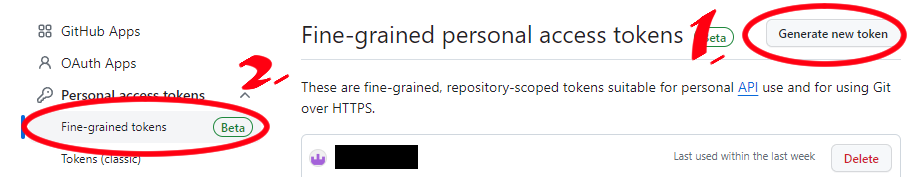
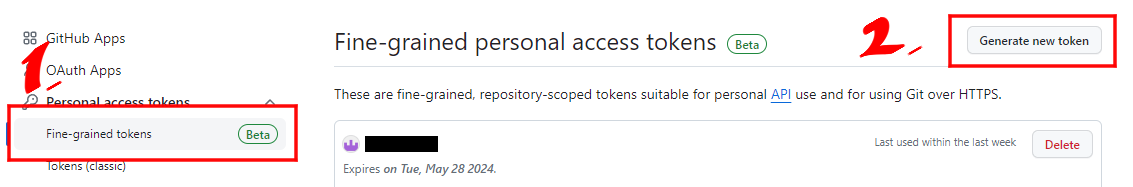
up

diff --git a/lecture02.md b/lecture02.md
@@ -32,9 +32,13 @@
 
 <br>
 
+- 右上のアイコンのsettingsへ移動。
 ![Alt text](images02/0221.png)
+- 左下のDeveloper settingsをクリック。
 ![Alt text](images02/2022.png)
+- `Fine-grained personal access tokens`を選択し`Generete new token`をクリック。
 ![Alt text](images02/2023.png)
+- 必要な権限を付与し作成完了。
 ![Alt text](images02/2024.png)
 ![Alt text](images02/2025.png)
 
@@ -52,6 +56,8 @@
 - 以下の設定を選択。
   - Pull Request必須
   - 承認を要求(必要承認回数 1)
+
+
 ![Alt text](images02/0204.png)
 - ブランチ保護ルールが設定される。
 ![Alt text](images02/0205.png)
